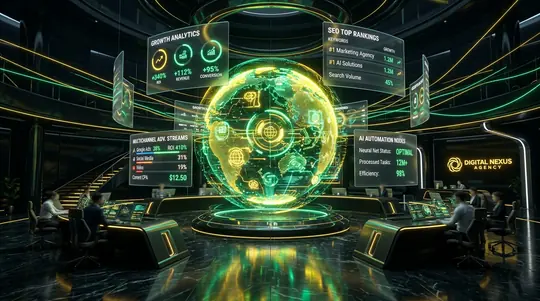
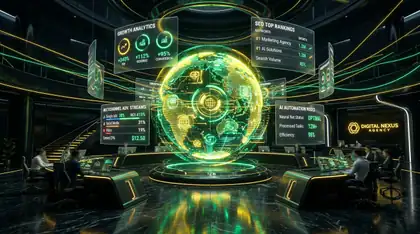
Eliminate Bandwidth Bottleneck: Remove unused image preloads from head, enable instant sub-1s LCP on mobile

diff --git a/index.html b/index.html
@@ -192,9 +192,6 @@
     ]
 }
     </script>
-    <!-- Responsive Hero LCP Preload (Mobile: 31KB / Desktop: 108KB) -->
-  <link rel="preload" as="image" href="assets/home_hero_visual_mobile.webp" type="image/webp" media="(max-width: 768px)" fetchpriority="high">
-  <link rel="preload" as="image" href="assets/home_hero_visual.webp" type="image/webp" media="(min-width: 769px)" fetchpriority="high">
 
   
   
